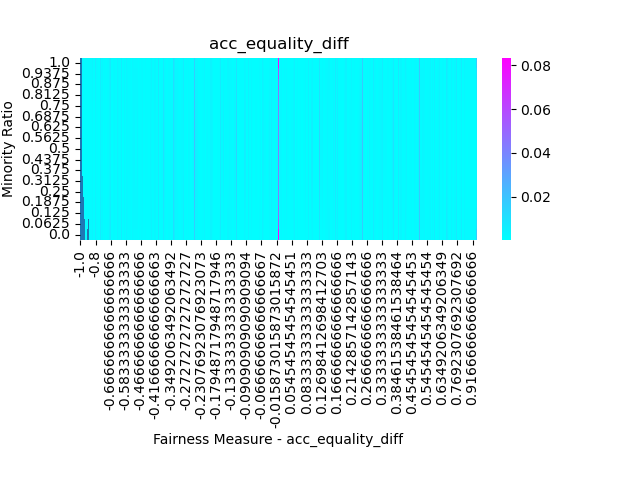
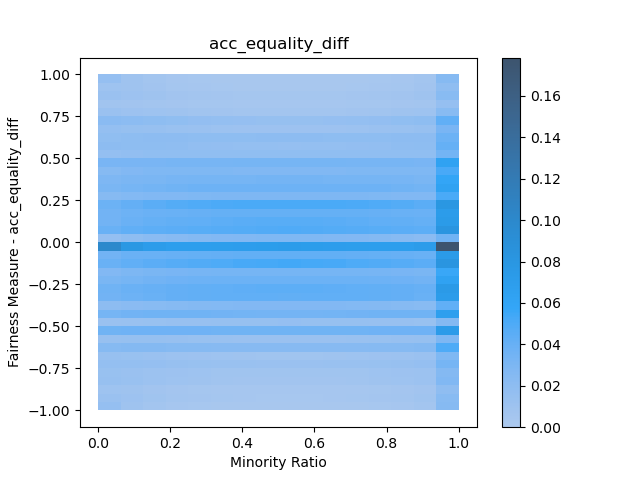
heatmap another try

diff --git a/main.py b/main.py
@@ -14,7 +14,6 @@ def the_ratio(n, k):
     for i in range(1, n):
         m = m * (k + i)
     m = round(m / math.factorial(n - 1))
-    print(m)
     return m
 
 
@@ -195,40 +194,41 @@ def get_pred_parity_diff(df):
 
 
 def create_heatmap(df, fair_measure):
+    plt.clf()
+
     df1 = df.groupby(['ir', fair_measure]).size().reset_index(name='counts')
-    print(df1)
     ir_counts = df1.groupby(['ir'])['counts'].sum().reset_index(name='ir_counts')
-    print(ir_counts)
     df1 = pd.merge(df1, ir_counts, on='ir', how='left')
-    print(df1)
     df1['probability'] = df1.counts / df1.ir_counts
-    print(df1)
-    heatm = sns.heatmap(df1.pivot('ir', fair_measure, values='probability'), annot=False, cmap='cool')
-    # majorFormatter = FormatStrFormatter('%0.2f')
-    # heatm.xaxis.set_major_formatter(majorFormatter)
-    # heatm.yaxis.set_major_formatter(majorFormatter)
-    
-    heatm.invert_yaxis()
+
+    #however i think this is not a final form
+    heatm = sns.histplot(df1, x="ir", y=fair_measure, weights="probability", binwidth=(0.0625, 0.05), cbar=True)
+
     plt.title(str(fair_measure))
-    plt.xlabel(f"Fairness Measure - {fair_measure}")
-    plt.ylabel("Minority Ratio")
-    plt.subplots_adjust(bottom=0.50)
-    #print(df1)
-    #plt.show()
+    plt.ylabel(f"Fairness Measure - {fair_measure}")
+    plt.xlabel("Minority Ratio")
+    
     fig = heatm.get_figure()
-    fig.savefig(f"plots/heatmap_{fair_measure}.png") 
+    fig.savefig(f"plots/heatmap_{fair_measure}.png")
+    return
     
 
 def create_histogram(df, ir_selected, fair_measure, bins_selected):
+    plt.clf()
+
     df1 = df[df["ir"] == ir_selected]
     df1 = df1[[fair_measure]]
+    
     hist = df1.hist(bins=bins_selected)
+    
     plt.title(str(fair_measure) + ' for ir = ' + str(round(ir_selected,2)))
     plt.xlabel(f"Fairness Measure - {fair_measure}")
     plt.ylabel("Counts")
+    
     fig = hist[0][0].get_figure()
     fig.savefig(f"plots/histogram_{fair_measure}_{round(ir_selected,2)}.png")
     #plt.show()
+    return
     
         
 def create_dataframe(nparray, k):
@@ -262,11 +262,7 @@ def create_dataframe(nparray, k):
     
     df.replace([np.inf, -np.inf], 0, inplace=True)
     df.replace(np.NaN, 0, inplace=True)
-    
-    # normalize fairness measure 
-    # df.iloc[:,14] = df.iloc[:,0:-1].apply(lambda x: (x-x.min())/(x.max()-x.min()), axis=0)
-    
-    print(df)
+
     return df
 
 
@@ -307,8 +303,8 @@ if __name__ == '__main__':
                ]
     ir_selected_list = df['ir'].unique().tolist()
 
-    pd.set_option('display.max_columns', None)
-    pd.set_option('display.max_rows', None)
+    # pd.set_option('display.max_columns', None)
+    # pd.set_option('display.max_rows', None)
     
     for fm in fm_list:
         create_heatmap(df, fm)
